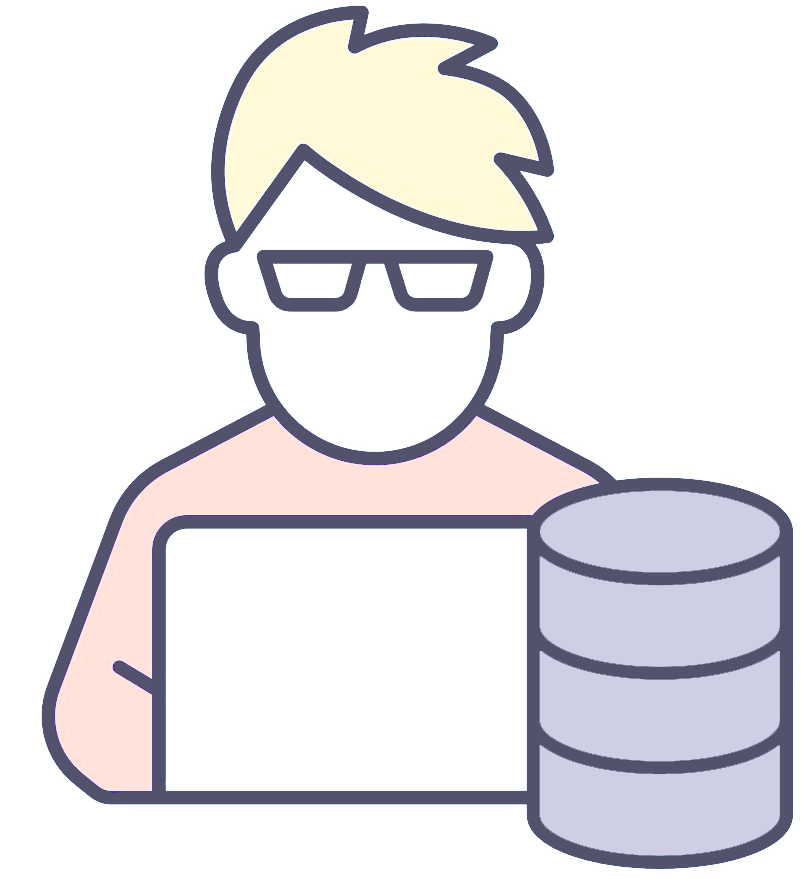
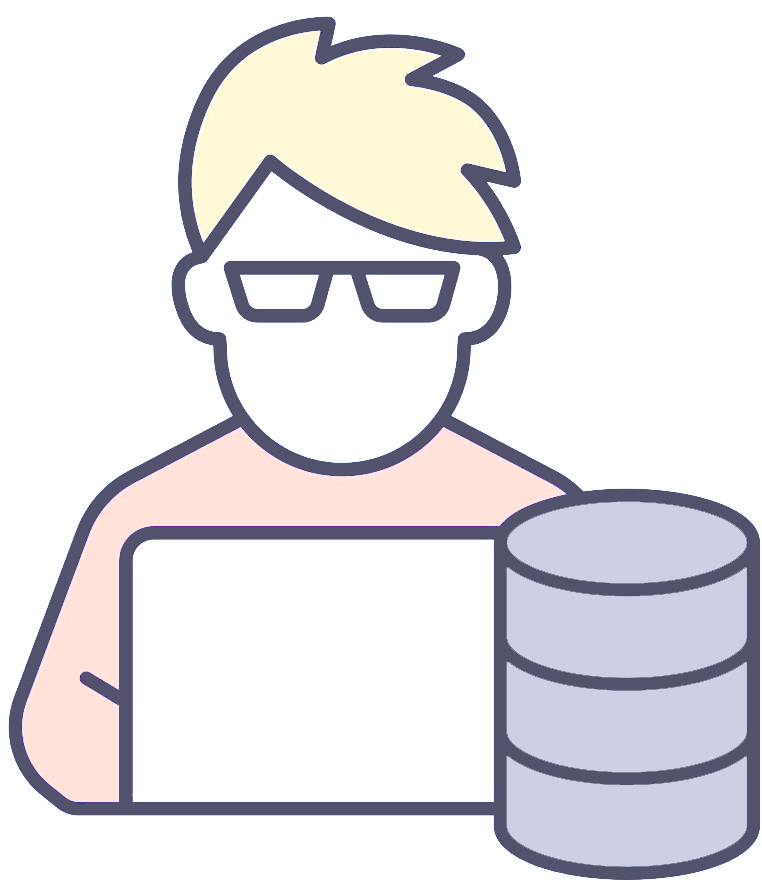
-minor ui changes

Changed region(s): [[0.0, 0.0, 1.0, 0.9829], [0.5131, 0.3686, 0.9659, 0.5836], [0.9055, 0.9522, 0.9659, 0.9829]]

diff --git a/ExaminerB/Program.cs b/ExaminerB/Program.cs
@@ -16,8 +16,8 @@ builder.Services.AddScoped<BeIService, BeService> ();
 builder.Services.AddHttpClient<FeService> (client =>
 {
     //var baseAddress = builder.Configuration["BaseAddress"] ?? "http://localhost:5232";  //local server: for Linux (http ONLY)
-    //var baseAddress = builder.Configuration ["BaseAddress"] ?? "https://localhost:7139";  //local server: for Windows
-    var baseAddress = builder.Configuration ["BaseAddress"] ?? "https://x.msht.ir";       //remote server: [x].msht.ir
+    var baseAddress = builder.Configuration ["BaseAddress"] ?? "https://localhost:7139";  //local server: for Windows
+    //var baseAddress = builder.Configuration ["BaseAddress"] ?? "https://x.msht.ir";       //remote server: [x].msht.ir
     client.BaseAddress = new Uri (baseAddress);
     client.Timeout = TimeSpan.FromSeconds (120);
 });